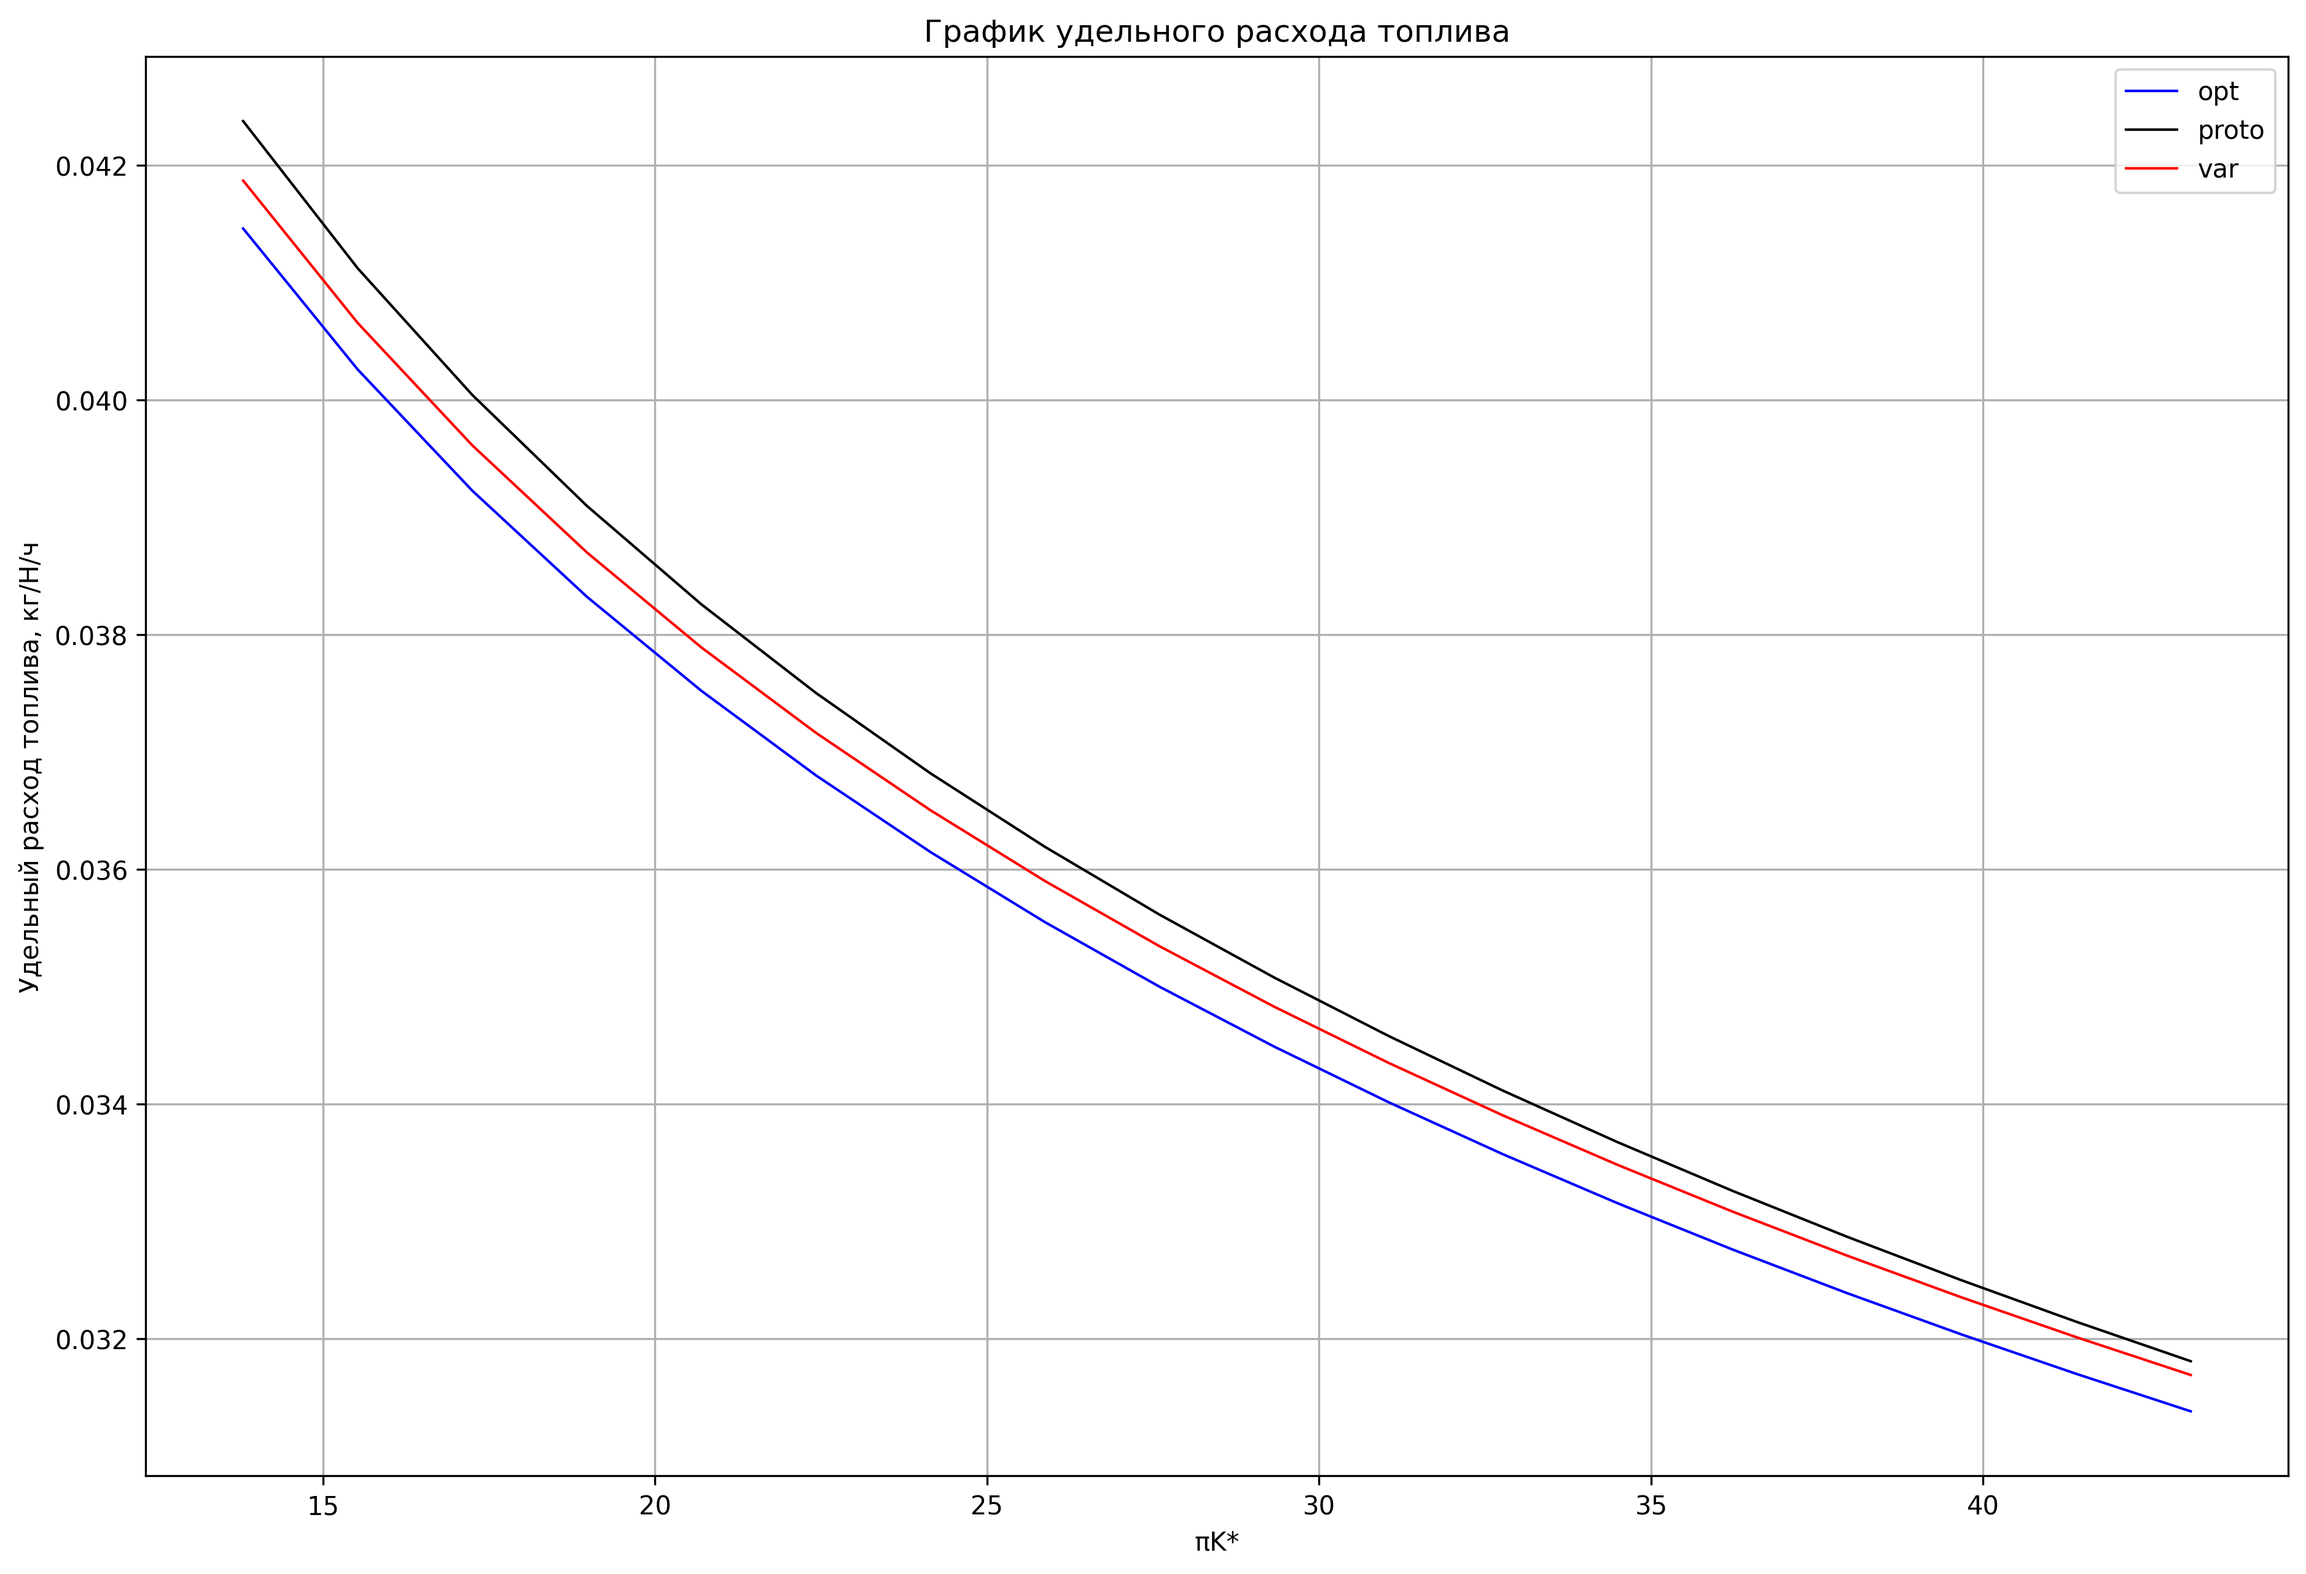
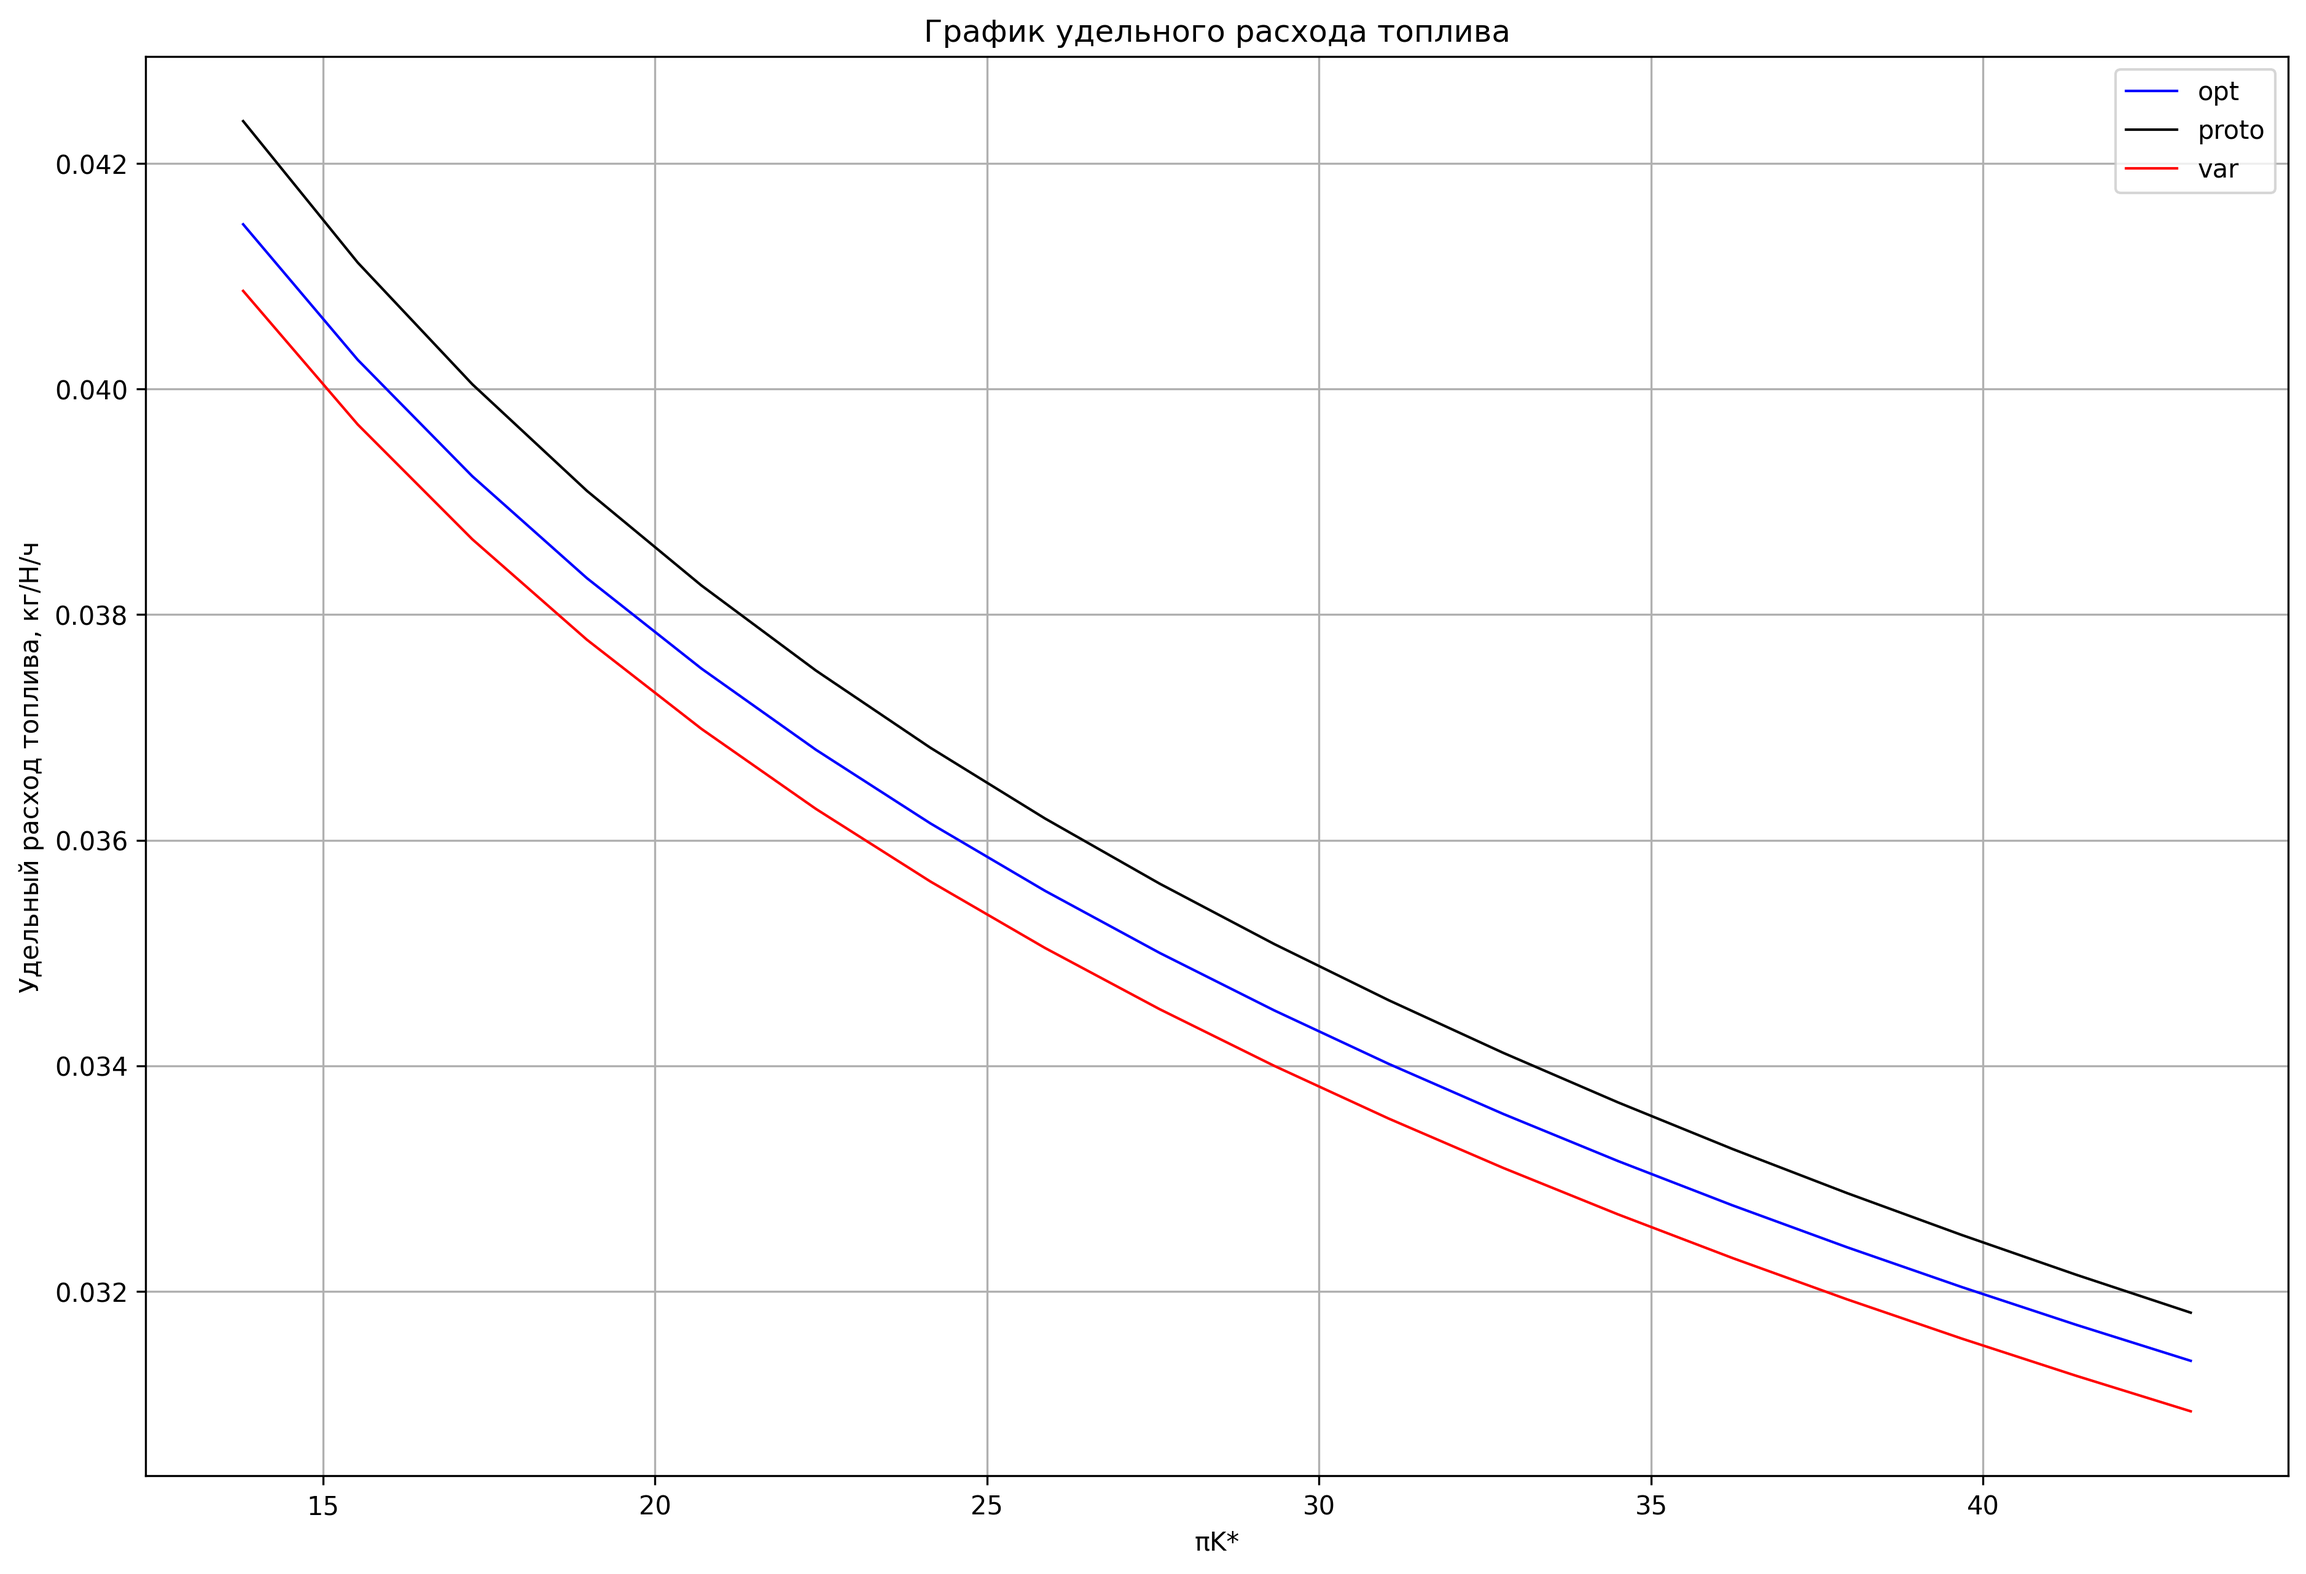
final

diff --git a/code/main.py b/code/main.py
@@ -42,7 +42,7 @@ T_gas_full = [
     ]
 m = [engine["m"] * 0.8,
         engine["m"],
-         engine["m"] * 1.2]
+        engine["m"] * 1.2]
     
 step = 0.4
 t_temp = []
@@ -51,8 +51,8 @@ m_temp = []
 for i in range(18):
         Pik_full.append(step * engine["Pik_full"])
         step += 0.05
+
 for T_gas_full_i in T_gas_full:
-    
     m_temp.append(lab.Table_m(engine["m"],
                                 lab.calc_proto(coef
                                                 ,T_gas_full_i
@@ -66,10 +66,10 @@ min_t = 0
 max_t = 0
 for t_table in t_temp:
     free_energy =  t_table.m[0].pi_k_full.l_free_energy
-    if free_energy > min_energy and free_energy < l_free_project:
+    if min_energy < free_energy < l_free_project:
         min_energy = free_energy
         min_t = t_table.t
-    if free_energy < max_energy and free_energy > l_free_project:
+    if max_energy > free_energy > l_free_project:
         max_energy = free_energy
         max_t = t_table.t
 T_gas_opt = min_t + (((max_t - min_t) / (max_energy - min_energy)) * (l_free_project - min_energy))
@@ -81,8 +81,8 @@ for pi_k_full_i in Pik_full:
 max_eff = 0.0
 opt_pi = 0.0
 for pi in opt_pi_map:
-    if opt_pi_map[pi].eff_comp > max_eff:
-        max_eff = opt_pi_map[pi].eff_comp
+    if opt_pi_map[pi].l_free_energy > max_eff:
+        max_eff = opt_pi_map[pi].l_free_energy
         opt_pi = pi
 
 print(opt_pi)
@@ -115,7 +115,7 @@ for pi_i in Pik_full:
 plt.plot(Pik_full, y, label='proto', color='black', linewidth=1)
 y.clear()
 for pi_i in Pik_full:
-    y.append(lab.calc_proto(coef,T_gas_opt, 4.8, pi_i).c_spec)
+    y.append(lab.calc_proto(coef,T_gas_opt, 5.1, pi_i).c_spec)
 plt.plot(Pik_full, y, label='var', color='red', linewidth=1)
 # Добавляем названия и легенду
 plt.title('График удельного расхода топлива') # Заголовок
@@ -131,7 +131,6 @@ plt.savefig('c-spec.png', dpi=300, bbox_inches='tight')
 y.clear()
 for pi_i in Pik_full:
     y.append(lab.calc_proto(coef,T_gas_opt, opt_m, pi_i).p_spec)
-
 # Создаем график
 plt.figure(figsize=(15, 10)) # Задаем размер картинки (ширина, высота)
 plt.plot(Pik_full, y, label='opt', color='blue', linewidth=1) # Рисуем линию с меткой и цветом
@@ -141,7 +140,7 @@ for pi_i in Pik_full:
 plt.plot(Pik_full, y, label='proto', color='black', linewidth=1)
 y.clear()
 for pi_i in Pik_full:
-    y.append(lab.calc_proto(coef,T_gas_opt, 4.8, pi_i).p_spec)
+    y.append(lab.calc_proto(coef,T_gas_opt,  5.1, pi_i).p_spec)
 plt.plot(Pik_full, y, label='var', color='red', linewidth=1)
 
 # Добавляем названия и легенду
@@ -159,7 +158,7 @@ res = lab.calc_opt_params(engine, coef)
 
 y.clear()
 plt.figure(figsize=(15, 10))
-
+print(f"start plot l_free m:{opt_m}")
 for pi_i in Pik_full:
     y.append(lab.calc_proto(coef,T_gas_opt, opt_m, pi_i).l_free_energy)
 plt.plot(Pik_full, y, label='opt', color='blue', linewidth=1) # Рисуем линию с меткой и цветом # Рисуем линию с меткой и цветом
@@ -169,7 +168,7 @@ for pi_i in Pik_full:
 plt.plot(Pik_full, y, label='proto', color='black', linewidth=1)
 y.clear()
 for pi_i in Pik_full:
-    y.append(lab.calc_proto(coef,T_gas_opt, 4.8, pi_i).l_free_energy)
+    y.append(lab.calc_proto(coef,T_gas_opt,  5.1, pi_i).l_free_energy)
 plt.plot(Pik_full, y, label='var', color='red', linewidth=1)
 # Добавляем названия и легенду
 plt.title('График свободной энергии') # Заголовок
@@ -185,20 +184,18 @@ plt.savefig('l-free.png', dpi=300, bbox_inches='tight')
 res = lab.calc_opt_params(engine,coef)
 res_string = "T\tm\t\tpi|T*|a|Xopt|k|k_gas|P_cpec|C_cpec|L_free\n"
 for T_table in res:
-    res_string += (f"T:{T_table.t:.1f}\n")
+    res_string += f"T:{T_table.t:.1f}\n"
     for m_table in T_table.m:
-        res_string += (f"\tm:{m_table.m:.2f}\n")
+        res_string += f"\tm:{m_table.m:.2f}\n"
         for pi_table in m_table.pi_k_full:
-            res_string += (f"\t\t{pi_table.pi_k_full:.4f}|{pi_table.t_gas_full:.4f}|{pi_table.alpha:.4f}|{pi_table.x_opt:.4f}|{pi_table.k:.4f}|{pi_table.k_gas:.4f}|{pi_table.p_spec:.4f}|{pi_table.c_spec:.4f}|{pi_table.l_free_energy:.4f}\n")
+            res_string += f"\t\t{pi_table.pi_k_full:.4f}|{pi_table.t_gas_full:.4f}|{pi_table.alpha:.4f}|{pi_table.x_opt:.4f}|{pi_table.k:.4f}|{pi_table.k_gas:.4f}|{pi_table.p_spec:.4f}|{pi_table.c_spec:.4f}|{pi_table.l_free_energy:.4f}\n"
 print(res_string)
-p_cpec_var = 0
+p_cpec_var = 99999999
 variant = {}
-for pi_i in Pik_full:
-    temp = lab.calc_proto(coef,T_gas_opt, opt_m, pi_i).p_spec
-    if temp >= p_cpec_var:
-        variant = lab.calc_proto(coef,T_gas_opt, opt_m, pi_i)
-        p_cpec_var = temp
+
+variant = lab.calc_proto(coef,T_gas_opt, 5.1, opt_pi)
+
 with open("variant.txt", "w") as file:
-    file.write(f"T|m|pi|T*|a|Xopt|k|k_gas|P_cpec|C_cpec|L_free\n{T_gas_opt:.4f}|{opt_m:.4f}|{variant.t_gas_full:.4f}|{variant.alpha:.4f}|{variant.x_opt:.4f}|{variant.k:.4f}|{variant.k_gas:.4f}|{variant.p_spec:.4f}|{variant.c_spec:.4f}|{variant.l_free_energy:.4f}\n")
+    file.write(f"T|m|pi|T*|a|Xopt|k|k_gas|P_cpec|C_cpec|L_free\n{T_gas_opt:.4f}|{opt_m:.4f}|{opt_pi:.4f}|{variant.alpha:.4f}|{variant.x_opt:.4f}|{variant.k:.4f}|{variant.k_gas:.4f}|{variant.p_spec:.4f}|{variant.c_spec:.4f}|{variant.l_free_energy:.4f}\n")
 with open("results.txt", "w") as file:  
     file.write(res_string)  

diff --git a/code/lab1.py b/code/lab1.py
@@ -27,7 +27,8 @@ class Table_pi_k_full:
         p_spec,
         c_spec,
         l_free_energy,
-        eff_comp
+        eff_comp,
+        eff
     ):
         super().__init__()
         self.pi_k_full = pi_k_full
@@ -40,6 +41,7 @@ class Table_pi_k_full:
         self.c_spec = c_spec
         self.l_free_energy = l_free_energy
         self.eff_comp = eff_comp
+        self.eff = eff
 
 def calc_opt_params(engine, coef):
     t_array = []
@@ -138,6 +140,7 @@ def calc_proto(coef, T_gas_full_i, m_i, Pik_full_i):
                     coef["effk_fan_full"],
                 )
     c_spec = kurs.calculate_c_spec(q_T, coef["ksi_take"], m_i, p_spec)
+    eff = kurs.calc_eta_e(L_free,q_T,coef["effk_gas"],combustion_props['Hu'])
     return Table_pi_k_full(
                         Pik_full_i,
                         T_gas_full_i,
@@ -148,6 +151,6 @@ def calc_proto(coef, T_gas_full_i, m_i, Pik_full_i):
                         p_spec,
                         c_spec,
                         L_free,
-                        comp_eff
+                        comp_eff,eff
                     )
                 

diff --git a/code/kursach.py b/code/kursach.py
@@ -506,7 +506,25 @@ def calculate_eta_c(sigma_bx, pi_k_star, k, eta_k_star):#норм
 
     return numerator / denominator
 
+def calc_eta_e(L_CB, q_T, eta_Gamma, H_u):
+    """
+    Вычисляет ηe по формуле:
+    ηe = L_CB / (q_T * ηΓ * H_u)
 
+    Параметры:
+    L_CB (float): Полезная мощность (Вт, Дж/с и т.п.)
+    q_T (float): Расход топлива
+    eta_Gamma (float): Коэффициент ηΓ
+    H_u (float): Низшая теплота сгорания топлива
+
+    Возвращает:
+    float: Значение ηe (эффективность)
+    """
+    if q_T == 0 or eta_Gamma == 0 or H_u == 0:
+        raise ValueError("Значения q_T, ηΓ и H_u должны быть ненулевыми.")
+    
+    eta_e = L_CB / (q_T * eta_Gamma * H_u)
+    return eta_e
 
 def calculate_pi_t_star(sigma_bx, pi_k_star, sigma_kc, sigma_1, pi_c_star):#норм
     return (sigma_bx * pi_k_star * sigma_kc * sigma_1) / pi_c_star
